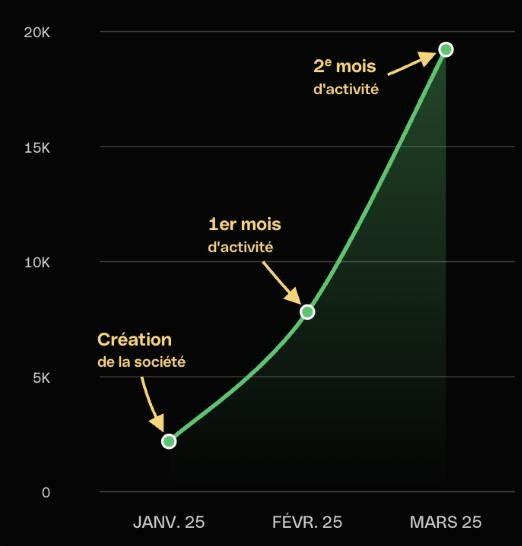
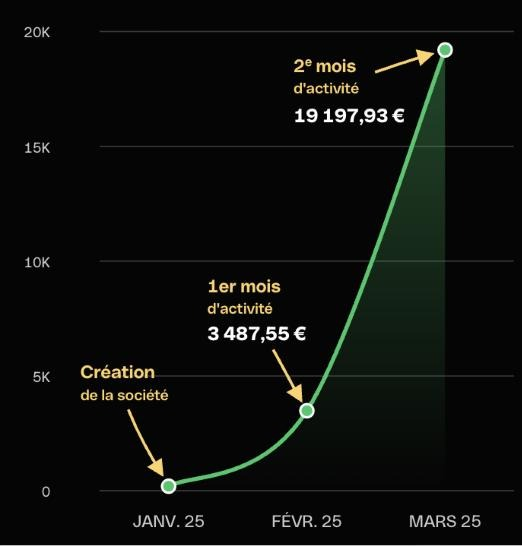
Landing FORMA : courbe preuve 1 avec chiffres exacts (février 3 487,55 €, mars 19 197,93 €)

diff --git a/index.html b/index.html
@@ -628,7 +628,7 @@
       <div class="container">
         <div class="section-head"><p class="kicker">Nos chiffres, sans filtre</p><h2 id="preuves-title">Ne nous crois pas sur parole&nbsp;: regarde nos comptes.</h2><p>Deux entreprises distinctes, le même résultat deux fois&nbsp;: plus de 10&nbsp;000&nbsp;€ dès le 2ᵉ&nbsp;mois, chacun. Voici notre chiffre d'affaires réel, relevé sur nos comptes pros, noms masqués.</p></div>
         <div class="shots">
-          <figure style="margin:0"><div class="slot shot shot-chart"><a href="images/qonto-1.jpg" target="_blank" rel="noopener" aria-label="Agrandir la capture 1"><img src="images/qonto-1.jpg" onload="this.closest('.slot').classList.add('ok')" alt="Courbe Qonto des entrées mensuelles du compte pro d'Aymeric : création de la société en janvier 2025, 1er mois d'activité en février, 2e mois en mars" loading="lazy" onerror="this.closest('.slot').classList.add('empty');this.parentNode.remove()"></a><span class="slot-label">Capture Qonto 1, total du mois<br>et période entourés en rouge<br>(à fournir)</span></div><figcaption class="shot-cap">Aymeric, 2ᵉ&nbsp;mois d'activité&nbsp;: plus de 10&nbsp;000&nbsp;€ de chiffre d'affaires.</figcaption></figure>
+          <figure style="margin:0"><div class="slot shot shot-chart"><a href="images/qonto-1.jpg" target="_blank" rel="noopener" aria-label="Agrandir la capture 1"><img src="images/qonto-1.jpg" onload="this.closest('.slot').classList.add('ok')" alt="Courbe Qonto des entrées mensuelles du compte pro d'Aymeric : création de la société en janvier 2025, 1er mois d'activité en février (3 487,55 € de chiffre d'affaires), 2e mois en mars (19 197,93 €)" loading="lazy" onerror="this.closest('.slot').classList.add('empty');this.parentNode.remove()"></a><span class="slot-label">Capture Qonto 1, total du mois<br>et période entourés en rouge<br>(à fournir)</span></div><figcaption class="shot-cap">Aymeric, 2ᵉ&nbsp;mois d'activité&nbsp;: plus de 10&nbsp;000&nbsp;€ de chiffre d'affaires.</figcaption></figure>
           <figure style="margin:0"><div class="slot shot"><a href="images/qonto-2.jpg" target="_blank" rel="noopener" aria-label="Agrandir la capture 2"><img src="images/qonto-2.jpg" onload="this.closest('.slot').classList.add('ok')" alt="Capture Qonto 2 : chiffre d'affaires encaissé, noms masqués" loading="lazy" onerror="this.closest('.slot').classList.add('empty');this.parentNode.remove()"></a><span class="slot-label">Capture Qonto 2, total du mois<br>et période entourés en rouge<br>(à fournir)</span></div><figcaption class="shot-cap">Marius, 2ᵉ&nbsp;mois d'activité&nbsp;: plus de 10&nbsp;000&nbsp;€ de chiffre d'affaires.</figcaption></figure>
           <figure style="margin:0"><div class="slot shot"><a href="images/qonto-3.jpg" target="_blank" rel="noopener" aria-label="Agrandir la capture 3"><img src="images/qonto-3.jpg" onload="this.closest('.slot').classList.add('ok')" alt="Capture Qonto 3 : chiffre d'affaires encaissé, noms masqués" loading="lazy" onerror="this.closest('.slot').classList.add('empty');this.parentNode.remove()"></a><span class="slot-label">Capture Qonto 3, un des mois à 30&nbsp;000&nbsp;€,<br>total et période entourés en rouge<br>(à fournir)</span></div><figcaption class="shot-cap">Aymeric et Marius&nbsp;: chacun un mois à 30&nbsp;000&nbsp;€ de chiffre d'affaires, en moins de 4&nbsp;mois.</figcaption></figure>
         </div>
